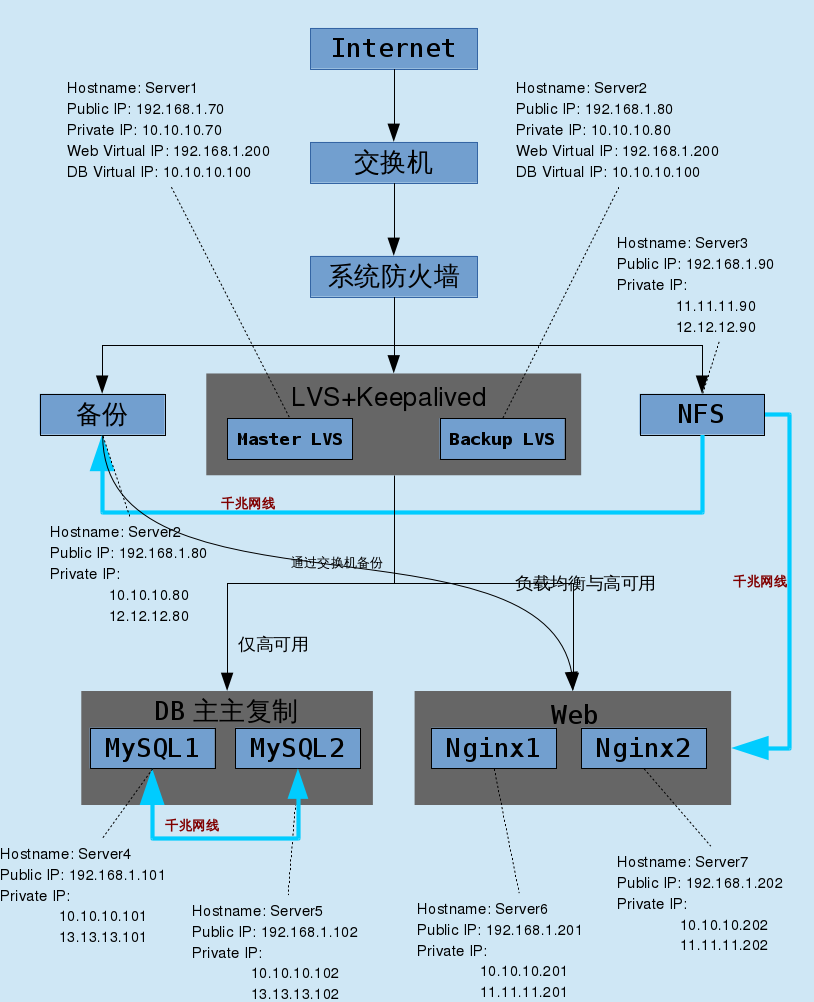
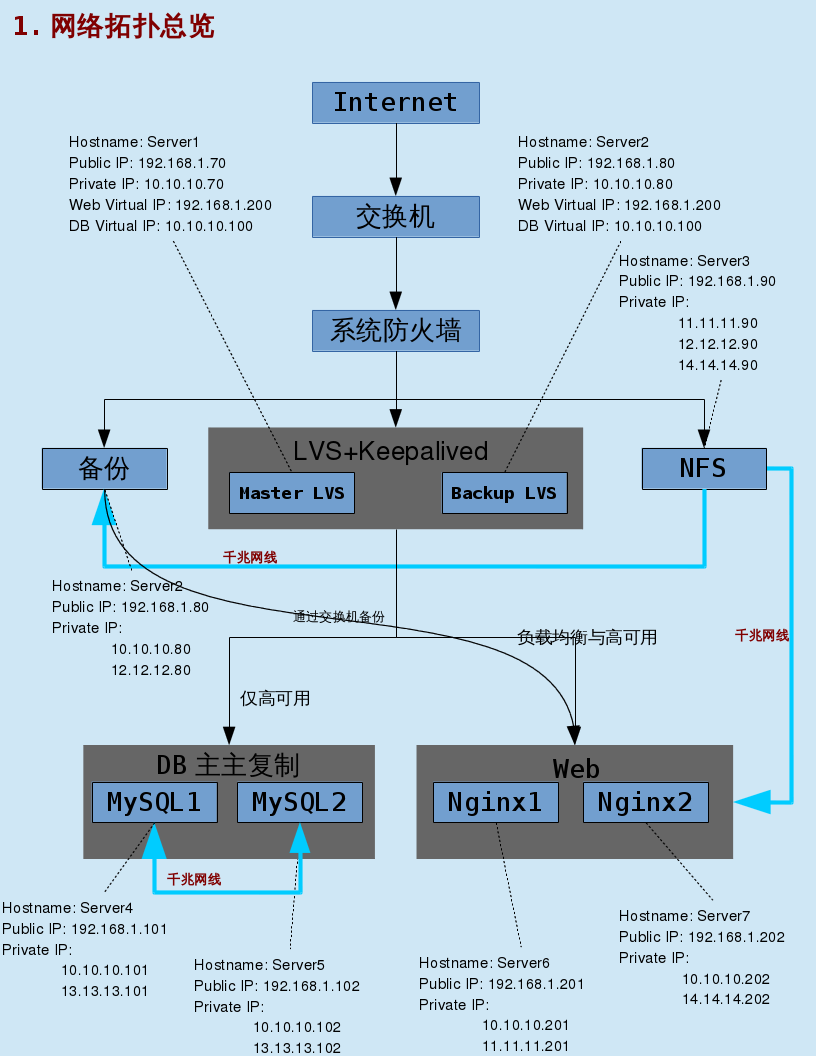
更新《高可用负载均衡集群实践简明教程》by fifilyu-github-bot

diff --git a/halcpgb/index.html b/halcpgb/index.html
@@ -1433,7 +1433,7 @@ p { margin-bottom: 1.25rem; }
 </tr>
 <tr>
 <td class="tableblock halign-left valign-top"><p class="tableblock"><strong><span class="blue">eth1</span></strong></p></td>
-<td class="tableblock halign-left valign-top"><p class="tableblock"><strong><span class="blue">11.11.11.202</span></strong></p></td>
+<td class="tableblock halign-left valign-top"><p class="tableblock"><strong><span class="blue">14.14.14.202</span></strong></p></td>
 <td class="tableblock halign-center valign-top"><p class="tableblock"><strong><span class="blue">Private IP</span></strong></p></td>
 </tr>
 </tbody>
@@ -2162,6 +2162,18 @@ NETMASK=255.255.255.0
 EOF</pre>
 </div>
 </div>
+<div class="listingblock">
+<div class="title">网卡eth3</div>
+<div class="content">
+<pre>cat &lt;&lt; EOF &gt; /etc/sysconfig/network-scripts/ifcfg-eth3
+DEVICE=eth3
+BOOTPROTO=none
+ONBOOT=yes
+IPADDR=14.14.14.90
+NETMASK=255.255.255.0
+EOF</pre>
+</div>
+</div>
 </div>
 <div class="sect4">
 <h5 id="_服务器_server6_3">服务器 Server6</h5>
@@ -2184,7 +2196,7 @@ EOF</pre>
 <div class="sect4">
 <h5 id="_服务器_server7_3">服务器 Server7</h5>
 <div class="paragraph">
-<p>IP地址：<strong><span class="red">11.11.11.202</span></strong></p>
+<p>IP地址：<strong><span class="red">14.14.14.202</span></strong></p>
 </div>
 <div class="listingblock">
 <div class="title">网卡eth1</div>
@@ -2193,7 +2205,7 @@ EOF</pre>
 DEVICE=eth1
 BOOTPROTO=none
 ONBOOT=yes
-IPADDR=11.11.11.202
+IPADDR=14.14.14.202
 NETMASK=255.255.255.0
 EOF</pre>
 </div>
